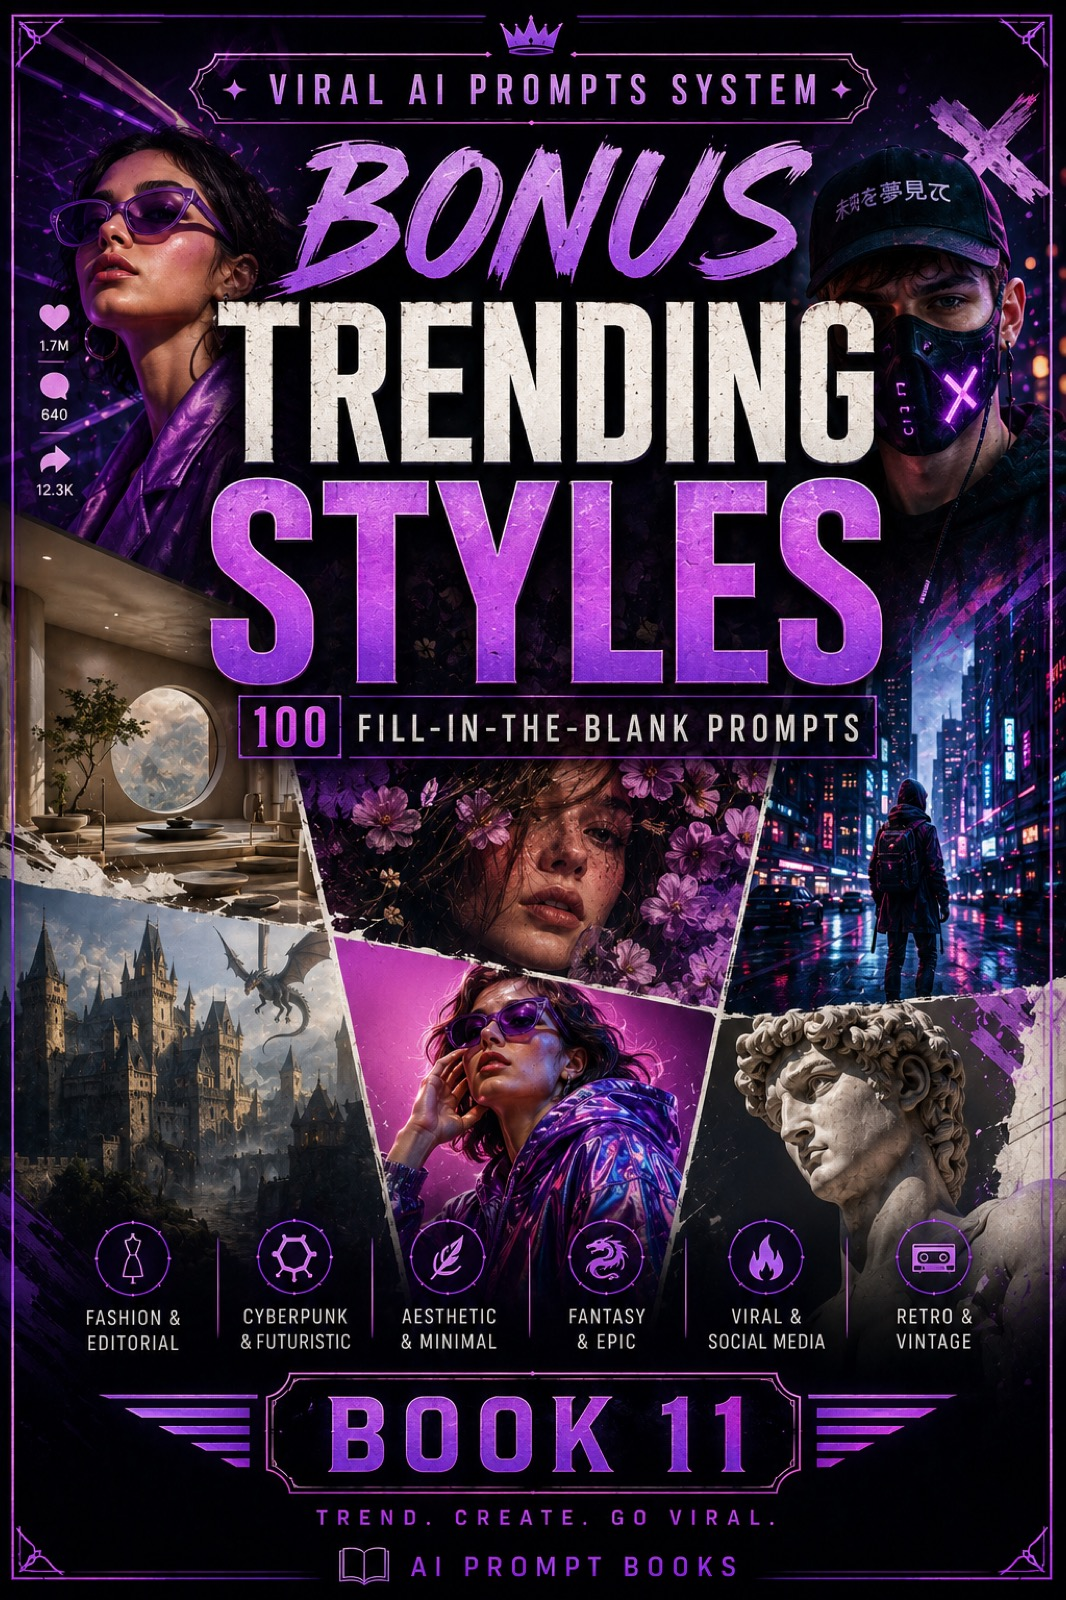
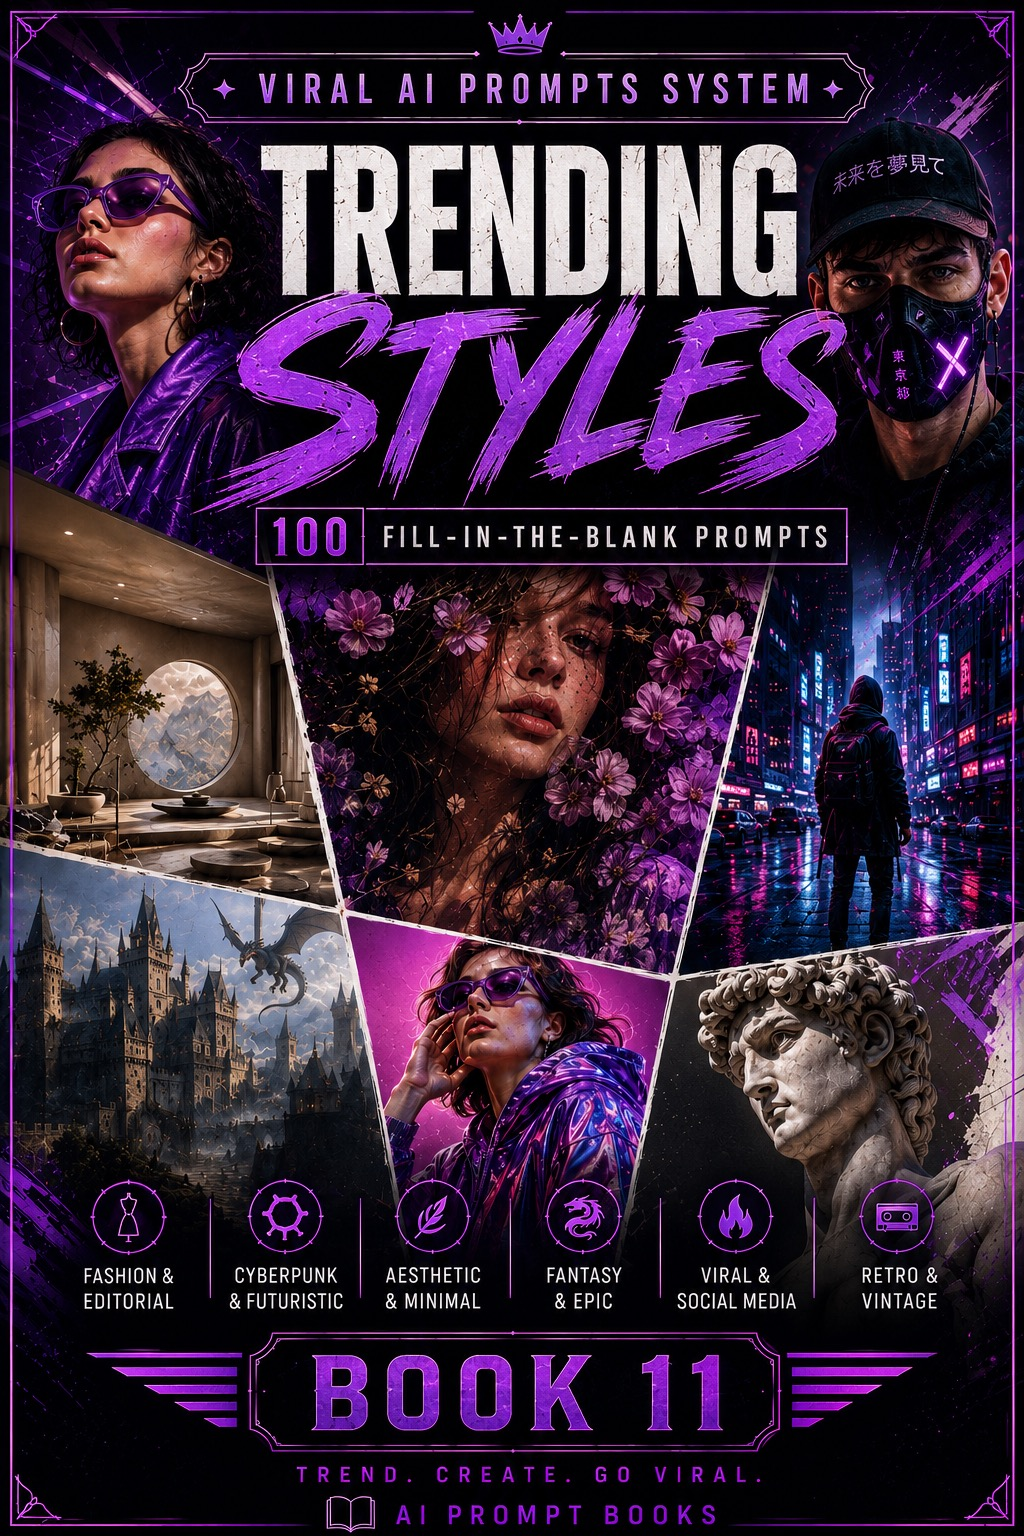
Refresh Book 11 cover and add social OG preview metadata.
This updates the Book 11 cover asset and configures Open Graph/Twitter image tags so shared links use the new preview image.

diff --git a/index.php b/index.php
@@ -12,6 +12,17 @@ $books    = getBooks();
 <title>Viral AI Prompts System — 11 Books, 1,100 AI Image Templates</title>
 <meta name="description" content="The Viral AI Prompts System — 11 books, 1,100 fill-in-the-blank templates. Create better AI images faster with Midjourney, ChatGPT, Firefly and more.">
 <link rel="canonical" href="<?= htmlspecialchars(rtrim(SITE_URL, '/')) ?>/">
+<meta property="og:type" content="website">
+<meta property="og:site_name" content="AI Prompt Books">
+<meta property="og:title" content="Viral AI Prompts System — 11 Books, 1,100 AI Image Templates">
+<meta property="og:description" content="Create stunning AI images in minutes with 11 prompt books and 1,100 fill-in-the-blank templates.">
+<meta property="og:url" content="https://www.aipromptbooks.in/">
+<meta property="og:image" content="https://www.aipromptbooks.in/assets/og/og-image.png">
+<meta property="og:image:alt" content="AI Prompt Books bundle preview showing all 11 books and bonus guide">
+<meta name="twitter:card" content="summary_large_image">
+<meta name="twitter:title" content="Viral AI Prompts System — 11 Books, 1,100 AI Image Templates">
+<meta name="twitter:description" content="Create stunning AI images in minutes with 11 prompt books and 1,100 fill-in-the-blank templates.">
+<meta name="twitter:image" content="https://www.aipromptbooks.in/assets/og/og-image.png">
 <?php renderMetaPixelHead(); ?>
 <style>
 /* ── RESET ── */
